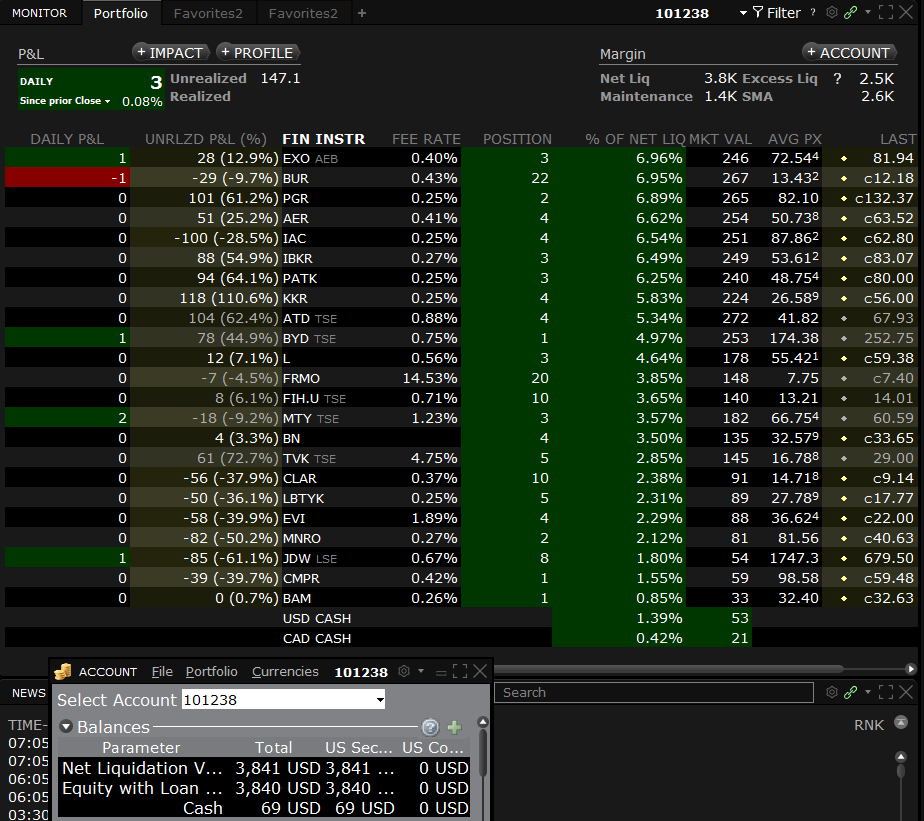
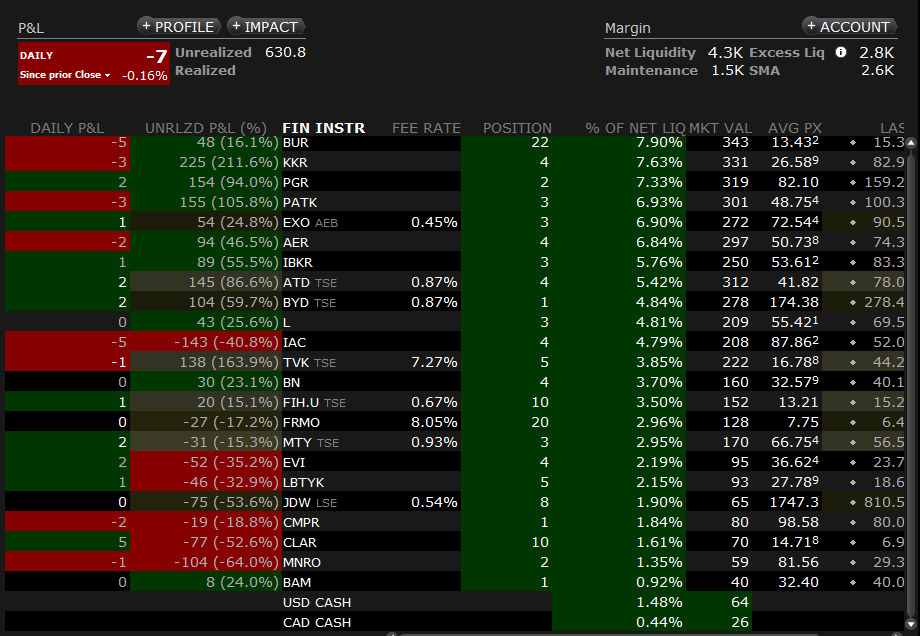
update bet of the decade

diff --git a/blog/bet-of-the-decade.html b/blog/bet-of-the-decade.html
@@ -72,7 +72,7 @@
 <section class="row">
 <div class="coffee-span-12 header">
 <h3 class="heading-1" style="direction: rtl; font-size: 40px; padding-bottom: 20px;">התערבות העשור: השקעה פאסיבית מול מנוהלת</h3>
-<p class="paragraph" style="font-size:12px;">פורסם בתאריך 30.6.2019, עדכון אחרון ב-3.7.2023</p>
+<p class="paragraph" style="font-size:12px;">פורסם בתאריך 30.6.2019, עדכון אחרון ב-1.1.2024</p>
 <p class="paragraph" style="font-size:12px;">התכנים בפוסט זה, כמו כל שאר התכנים בבלוג, הינם תכנים לימודיים במהותם, הם אינם מהווים ייעוץ או המלצה לביצוע פעולה בנייר ערך, ואין לראות בהם תחליף לייעוץ השקעות ו/או ייעוץ פנסיוני המתחשב בצרכיו הייחודיים של כל אדם.</p>
 <br>
 <div class="container table-row">
@@ -108,9 +108,9 @@
 <p class="paragraph">7. <b>עמלות</b>: כדי לבצע השוואה הוגנת בין התיקים, גובה עמלות הקניה הראשוניות צריך להיות זהה. כיוון שהתיק של רונן מדווח באמצעות מדדים ולכן אינו כולל עמלת קניה, יתווסף לתיק של יואב הסכום של עמלת הקניה הראשונית שלו.</p>
 <p class="paragraph">8. <b>מיסים</b>: מיסים על רווחי הון ועל דיבידנדים לא יהיו חלק מחישוב התשואות, אלא אם נוכו במקור.</p>
 <p class="paragraph">9. <b>נכסים מותרים</b>: לתיק מנוהל – מניות הנסחרות בבורסה מוכרת בעולם. אין להחזיק בתיק מניה בודדת בהיקף העולה על 20% משווי התיק. לתיק פאסיבי – מדדים וקרנות סל. בשתי האפשרויות חל איסור על שימוש במינוף, נגזרים ואופציות.</p>
-<p class="paragraph">10. <b>שינויים בהרכב התיק לאורך תקופת התחרות</b>: יואב לא יוכל להחליף חברות בתיק לאורך תקופת התחרות, וכספי דיבידנדים שיתקבלו יוכלו להיות מושקעים מחדש רק באחת או יותר מהחברות שברשימה. האפשרות היחידה של יואב להחליף חברה בתיק תהיה רק במידה ואותה חברה נרכשה, ובמקרה זה יוכל יואב להשקיע את כספי תמורת המכירה באחת או יותר מהמניות שכבר מצויות בתיקו.</p>
+<!--<p class="paragraph">10. <b>שינויים בהרכב התיק לאורך תקופת התחרות</b>: יואב לא יוכל להחליף חברות בתיק לאורך תקופת התחרות, וכספי דיבידנדים שיתקבלו יוכלו להיות מושקעים מחדש רק באחת או יותר מהחברות שברשימה. האפשרות היחידה של יואב להחליף חברה בתיק תהיה רק במידה ואותה חברה נרכשה, ובמקרה זה יוכל יואב להשקיע את כספי תמורת המכירה באחת או יותר מהמניות שכבר מצויות בתיקו.</p>-->
 <p class="paragraph" style="padding-top: 20px; font-size:22px;">התיק של יואב</p>
-<p class="paragraph">התיק של יואב כולל רשימה של 23 מניות ספציפיות שיוחזקו לאורך כל תקופת ההתערבות. יואב בחר בעיקר במניות קטנות יחסית שהוא רואה בהן הזדמנות לתשואה גבוהה. אין לראות ברשימה זו משום המלצה לביצוע פעולה בניירות ערך או לייעוץ השקעות המתחשב בצרכיו הייחודיים של כל אדם.</p>
+<p class="paragraph">התיק של יואב כולל רשימה של 23 מניות ספציפיות<!--שיוחזקו לאורך כל תקופת ההתערבות-->. יואב בחר בעיקר במניות קטנות יחסית שהוא רואה בהן הזדמנות לתשואה גבוהה. אין לראות ברשימה זו משום המלצה לביצוע פעולה בניירות ערך או לייעוץ השקעות המתחשב בצרכיו הייחודיים של כל אדם.</p>
 <p class="paragraph">פרטים אודות המניות שבחר יואב לתיק יופיעו בהדרגה <a target="_blank" href="https://www.themarker.com/blogs/yoav-zelikovic">בבלוג שלו</a>. הרשימה המלאה: EXO, JDW, BUR, IBKR, PATK, CKI, BYD.UN, MTY, CLAR, ADT.A, FIH.U, MMAC, LBTYK, CMPR, PGR, BAM, L, EVI, MNRO, KKR, AER, IAC, FRMO.</p>
 <p class="paragraph" style="padding-top: 20px; font-size:22px;">התיק של רונן</p>
 <p class="paragraph">התיק של רונן יכלול שני מדדים בינלאומיים רחבים בחלוקה שווה, המכסים ביחד כ-6,000 מניות מכל רחבי העולם המפותח: 50% מהתיק יוקצה למדד <a target="_blank" href="https://www.msci.com/world">MSCI World Index</a> הכולל כ-1,600 חברות גדולות ובינוניות, ו-50% למדד <a target="_blank" href="https://www.msci.com/documents/10199/a67b0d43-0289-4bce-8499-0c102eaa8399">MSCI World Small Cap Index</a> הכולל כ-4,400 חברות קטנות. מעקב אחר תשואת המדדים יתבצע מתוך <a target="_blank" href="https://www.msci.com/end-of-day-history?chart=regional&priceLevel=41&scope=R&style=C&currency=15&size=36&indexId=106">מחולל הגרפים של MSCI</a>, באופן שכולל השקעה מחדש של הדיבידנדים במדדים. להלן גרף המציג את ביצועי המדדים ב-15 השנים שקדמו לתחילת התחרות:</p>
@@ -118,17 +118,17 @@
 <p class="paragraph"><b>מדוע דווקא המדדים הללו?</b> כיוון שמדדי מניות קטנות מספקים תשואה היסטורית (נומינלית) של כ-12% לשנה בממוצע רב-שנתי, ומדדי מניות גדולות מספקים תשואה של כ-10% לשנה בממוצע רב-שנתי, יש היגיון בחשיפה משמעותית של התיק גם למניות קטנות ולא רק למניות גדולות או מניות ענק כמו המניות הכלולות במדד ה-S&P 500 למשל (כמובן שהתשואה העודפת באה ע"ח תנודתיות גבוהה יותר). הסיבה לבחירת שני מדדים ולא מדד גלובלי אחד שכולל גם חברות גדולות וגם קטנות (כדוגמת MSCI World All Cap Index) היא שהמשקל של כמה מאות מניות ענק במדד עולמי אחד מהווה כ-80% מכלל המדד, כך שאלפי חברות קטנות יותר מקבלות חשיפה מאוד נמוכה. לכן, בחר רונן להקצות 50% מהתיק למדד מניות גדולות ו-50% למדד מניות קטנות. אין לראות בתיק זה משום המלצה לביצוע פעולה בניירות ערך או לייעוץ השקעות המתחשב בצרכיו הייחודיים של כל אדם.</p>
 
 <p class="paragraph" style="padding-top: 20px; font-size:22px; color: #829F16" id="results">תוצאות ההתערבות</p>
-<p class="paragraph">התוצאות שלהלן הינן התוצאות המצטברות ממועד תחילת ההתערבות (ה-1.7.2019) ועד ה-2.7.2023. נכון למועד זה:</p>
-<p class="paragraph">התיק של יואב השיג תשואה מצטברת של <b>5.66%</b>.</p>
-<p class="paragraph">התיק של רונן השיג תשואה מצטברת של <b>27.55%</b>.</p>
-<p class="paragraph">הפרש התשואות עומד כרגע על <b>21.89%</b> לזכות התיק של רונן, המהווה קיטון של 4.78% בהפרש התשואות מהחציון הקודם.</p>
+<p class="paragraph">התוצאות שלהלן הינן התוצאות המצטברות ממועד תחילת ההתערבות (ה-1.7.2019) ועד ה-1.1.2024. נכון למועד זה:</p>
+<p class="paragraph">התיק של יואב השיג תשואה מצטברת של <b>18.81%</b>.</p>
+<p class="paragraph">התיק של רונן השיג תשואה מצטברת של <b>49.03%</b>.</p>
+<p class="paragraph">הפרש התשואות עומד כרגע על <b>30.22%</b> לזכות התיק של רונן, המהווה גידול של 8.33% בהפרש התשואות מהחציון הקודם.</p>
 <br>
 <p class="paragraph" style="font-size:18px;">סיכום תוצאות התיק של יואב</p>
-<p class="paragraph">התיק של יואב התחיל משווי של $3,455, ובנטרול עמלות הקניה החד פעמיות ($158) כמתואר בפרטי ההתערבות שלעיל, עמד על שווי של $3,613. נכון למועד הדיווח התיק עמד על שווי של $3,841, כלומר שווי של $3,999 בנטרול עמלת הקניה, שווי המגלם תשואה ברוטו של 10.68%. בניכוי דמי הניהול המצטברים ($181) עומדת התשואה על 5.66%. הטבלה שלהלן מפרטת את התשואות של כל אחת מהמניות בתיק של יואב.</p>
+<p class="paragraph">התיק של יואב התחיל משווי של $3,455, ובנטרול עמלות הקניה החד פעמיות ($158) כמתואר בפרטי ההתערבות שלעיל, עמד על שווי של $3,613. נכון למועד הדיווח התיק עמד על שווי של $4,343, כלומר שווי של $4,501 בנטרול עמלת הקניה, שווי המגלם תשואה ברוטו של 24.58%. בניכוי דמי הניהול המצטברים ($208) עומדת התשואה על 18.81%. הטבלה שלהלן מפרטת את התשואות של כל אחת מהמניות בתיק של יואב.</p>
 <p class="paragraph" style="text-align: center;"><img src="../images/results-yoav.png" alt="results-yoav"></p>
 <br>
 <p class="paragraph" style="font-size:18px;">סיכום תוצאות התיק של רונן</p>
-<p class="paragraph">התיק של רונן התחיל משווי של $200 ($100 לכל מדד) ועמד נכון למועד הדיווח על שווי של $255.1, המגלם תשואה של 27.55%. הגרף שלהלן מציג את התשואה של שני המדדים בתיק של רונן.</p>
+<p class="paragraph">התיק של רונן התחיל משווי של $200 ($100 לכל מדד) ועמד נכון למועד הדיווח על שווי של $298.05, המגלם תשואה של 49.03%. הגרף שלהלן מציג את התשואה של שני המדדים בתיק של רונן.</p>
 <p class="paragraph" style="text-align: center;"><img src="../images/results-ronen.png" alt="results-ronen"></p>
 <br>
 <script type='text/javascript' src='//form.ravpage.co.il/fbafa30d95b851a0b3ba5984f76428c55E9FF981' charset='UTF-8'></script>
